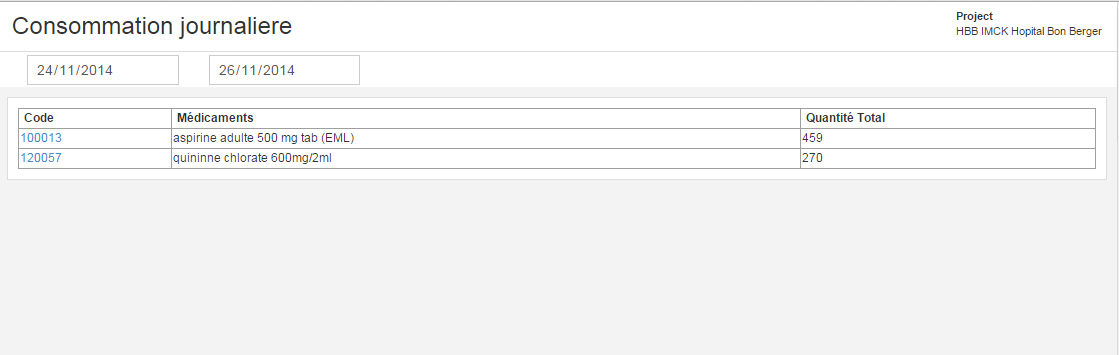
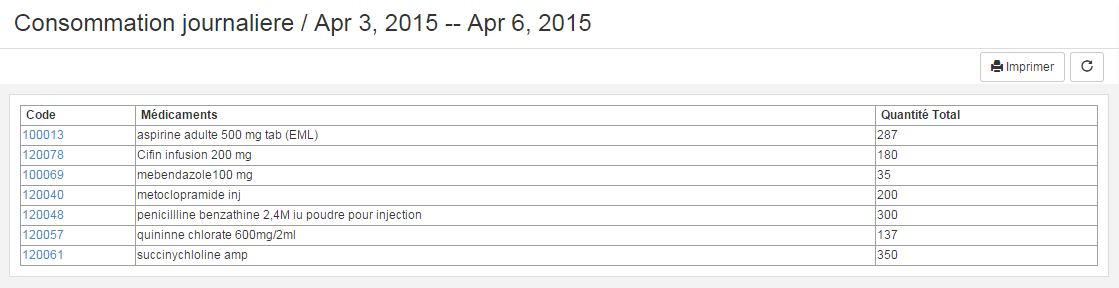
Update bhima User guide

Changed region(s): [[0.0, 0.2812, 1.0, 0.9375], [0.0, 0.0, 1.0, 0.125], [0.0, 0.1562, 1.0, 0.25]]

diff --git a/docs/BHIMA User Guide/HMS manuel d'utilisation.tex b/docs/BHIMA User Guide/HMS manuel d'utilisation.tex
@@ -1651,7 +1651,7 @@ Le module rapports permet de pouvoir visualiser plusieurs types des rapports ré
 
 \newpage
 \section{Bilan}
-Un bilan comptable est un document qui synthétise à un moment donné ce que l'entreprise possède, appelé l'« actif » (terrains, immeubles, etc.) et ses ressources, appelées le « passif » (capital, réserves, crédits, etc.). Le bilan est l'un des documents composant les états financiers.
+Un bilan  comptable est un document qui synthétise à un moment donné ce que l'entreprise possède, appelé l'« actif » (terrains, immeubles, etc.) et ses ressources, appelées le « passif » (capital, réserves, crédits, etc.). Le bilan est l'un des documents composant les états financiers.
 
 L'interface permettant de visualiser le bilan se présente de la manière suivante.
 
@@ -1684,7 +1684,7 @@ Le module compte d'exploitation permet de lister les comptes d'exploitations qui
 
 \begin{figure}[h]
 \begin{center}
-\includegraphics[width=8cm]{pic/ComptExploitation.png}
+\includegraphics[width=10cm]{pic/ComptExploitation.png}
 \end{center}
 \caption{Interface principale du module compte d'exploitation}
 \label{Interface principale du module compte d'exploitation}
@@ -1714,15 +1714,30 @@ son interface principale se présente de la manière suivante.
 
 \begin{figure}[h]
 \begin{center}
-\includegraphics[width=14cm]{pic/ConsoJournProd.png}
+\includegraphics[width=14cm]{pic/ConsJour.png}
 \end{center}
 \caption{Interface principale du module consommation journalière}
 \label{Interface principale du module consommation journalière}
 \end{figure}
 
-La figure ci haute est une illustration du rapport de consommations des produits entre deux dates différents. La zone  \includegraphics[scale=0.7]{pic/PlageTimes.png} qui permet visualiser le rapport de la consommation des produits pharmaceutiques en précisant une plage de temps par rapport aux dates.
+La figure ci haute est une illustration l'interface principale de la consommation journalière, cette interface permet de sélectionner la plage de temps pour laquelle on voudrait visualiser le rapport de la consommation. 
 
-Le tableau du rapport de la consommation journalière possède trois entête Code, Médicaments et Quantité total. Le code du médicament est un lien hypertexte qui permet une redirection vers un autre rapport qui détaille la consommation effective d'un médicament par jour. La figure ci-après donne un apperçue du rapport de consommation regulier d'un produit par jour.
+Le bouton générer permet l'affichage du tableau du rapport de la consommation journalière.
+L'interface permettant de visualier le rapport se présente de la manière suivante. Au dessus on retrouve deux boutons. le prémier 
+\includegraphics[scale=0.7]{pic/Print.png} permet d'imprimer le rapport et le second \includegraphics[scale=0.7]{pic/refresh.png}.
+
+Le tableau du rapport de la consommation possède trois entête Code, Médicaments et Quantité total. Le code du médicament est un lien hypertexte qui permet une rédirection vers un autre rapport qui détaille la consommation effective d'un médicament par jour. 
+
+\begin{figure}[h]
+\begin{center}
+\includegraphics[width=14cm]{pic/ConsoJournProd.png}
+\end{center}
+\caption{Apperçue du Consommation journalière}
+\label{Apperçue du Consommation journalière}
+\end{figure}
+
+
+La figure ci-après donne un apperçue du rapport de consommation journalière d'un produit par jour.
 
 \begin{figure}[h]
 \begin{center}
